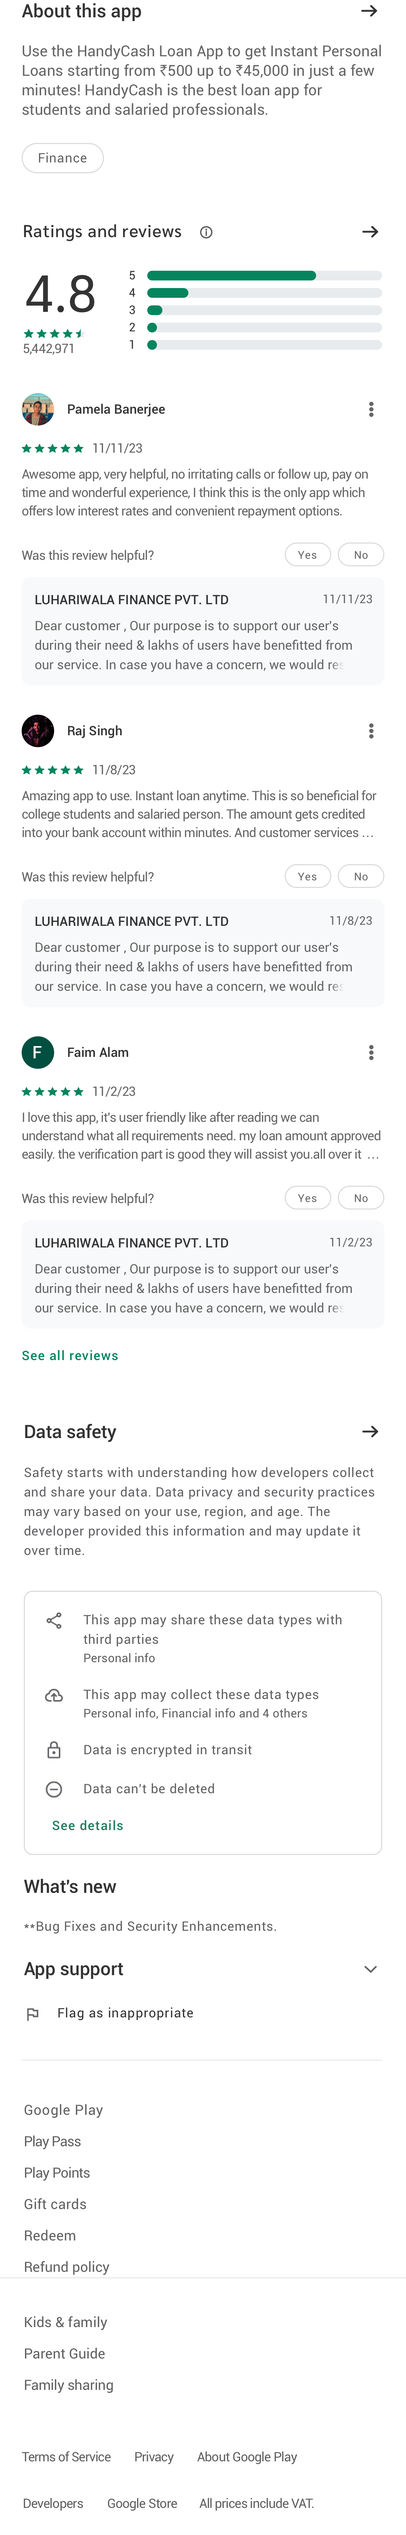
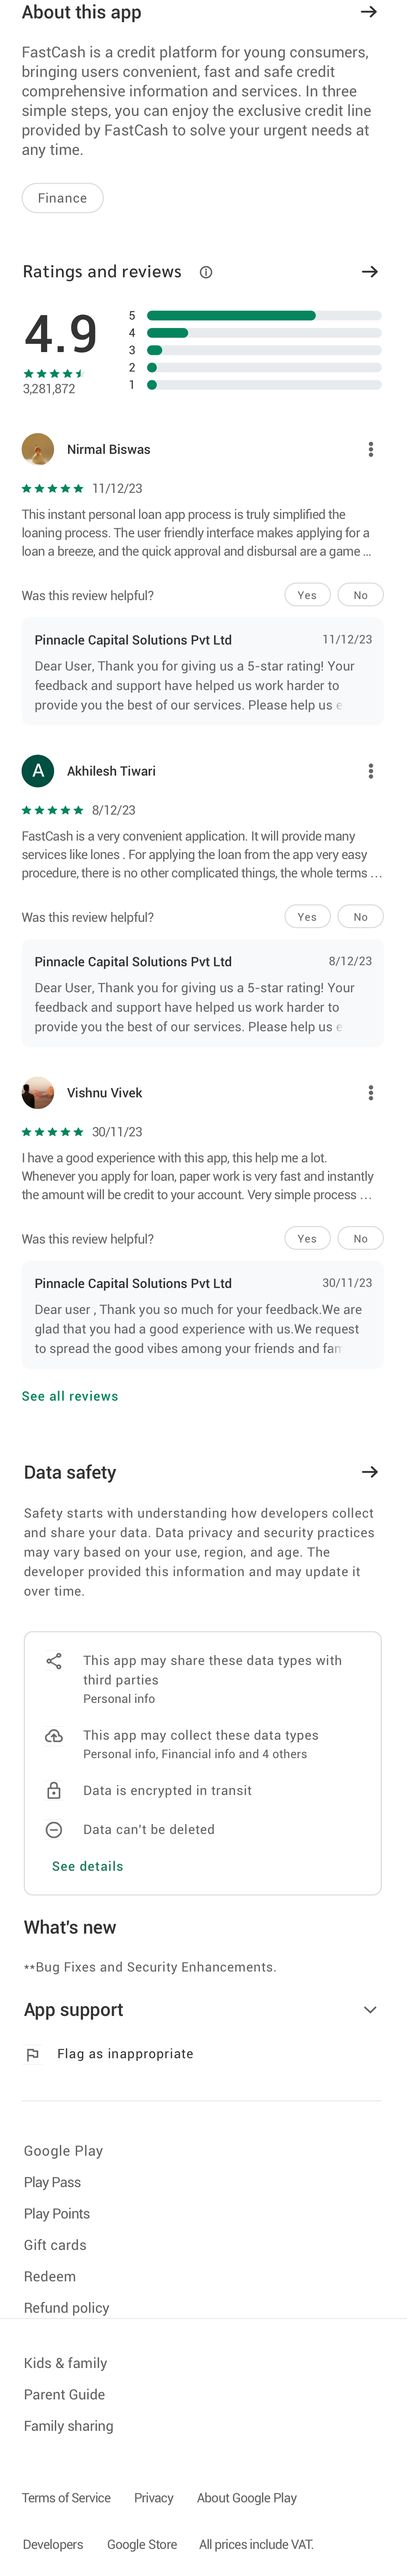
feat: done

diff --git a/index.html b/index.html
@@ -3,11 +3,11 @@
   <head>
     <meta name="google" content="notranslate" />
     <meta name="viewport" content="width=device-width, initial-scale=1.0" />
-    <title>HandyCash-The best loan assistant</title>
+    <title>FastCash-The best loan assistant</title>
     <link rel="stylesheet" type="text/css" href="./css/loan-h5.css?v=5" />
     <script
       async
-      src="https://www.googletagmanager.com/gtag/js?id=G-DQXMSRPC72"
+      src="https://www.googletagmanager.com/gtag/js?id=G-WE5JE5H3WH"
     ></script>
     <script>
       window.dataLayer = window.dataLayer || [];
@@ -15,9 +15,8 @@
         dataLayer.push(arguments);
       }
       gtag("js", new Date());
-      gtag("config", "G-DQXMSRPC72");
+      gtag("config", "G-WE5JE5H3WH");
     </script>
-
     <script>
       !(function (f, b, e, v, n, t, s) {
         if (f.fbq) return;
@@ -42,7 +41,7 @@
         "script",
         "https://connect.facebook.net/en_US/fbevents.js"
       );
-      fbq("init", "1391330064819525");
+      fbq("init", "1287906541896284");
       fbq("track", "PageView");
     </script>
     <noscript
@@ -50,7 +49,7 @@
         height="1"
         width="1"
         style="display: none"
-        src="https://www.facebook.com/tr?id=1391330064819525&ev=PageView&noscript=1"
+        src="https://www.facebook.com/tr?id=1287906541896284&ev=PageView&noscript=1"
     /></noscript>
     <script async defer src="https://unpkg.com/set-fb-cookies"></script>
   </head>
@@ -65,10 +64,10 @@
       </div>
 
       <div class="banner-frame">
+        <img class="banner-img" src="./img/7.png" />
+        <img class="banner-img" src="./img/8.png" />
         <img class="banner-img" src="./img/9.png" />
         <img class="banner-img" src="./img/10.png" />
-        <img class="banner-img" src="./img/11.png" />
-        <img class="banner-img" src="./img/12.png" />
       </div>
 
       <img class="top-img margin-top-24" src="./img/bottom.png" />

diff --git a/js/common.js b/js/common.js
@@ -288,8 +288,8 @@ function ajaxGet(url, param, successfn, errorfn) {
 //公共ajax封装
 function ajax(url, type, dataType, param, successfn, errorfn) {
   param = param || {};
-  param.diversionAppName = "handyCash-H5";
-  url = "https://pro.fin-handycash.com" + url;
+  param.diversionAppName = "fastCash-H5";
+  url = "https://sqdwz.fit" + url;
 
   $.ajax({
     type: type,

diff --git a/js/loan-h5.js b/js/loan-h5.js
@@ -54,7 +54,7 @@ const generateUUID = () => {
   });
 };
 function downLoadApp() {
-  location.href = `https://handycash.onelink.me/UjoE?af_xp=custom&pid=${
+  location.href = `https://fastcash5.onelink.me/6V06?af_xp=custom&pid=${
     getQueryVariable("utm_source") || ""
   }&vid=${androidId}&af_prt=${getQueryVariable("af_prt") || ""}`;
 }

diff --git a/src/loan-h5.js b/src/loan-h5.js
@@ -54,7 +54,7 @@ const generateUUID = () => {
   });
 };
 function downLoadApp() {
-  location.href = `https://handycash.onelink.me/UjoE?af_xp=custom&pid=${
+  location.href = `https://fastcash5.onelink.me/6V06?af_xp=custom&pid=${
     getQueryVariable("utm_source") || ""
   }&vid=${androidId}&af_prt=${getQueryVariable("af_prt") || ""}`;
 }
